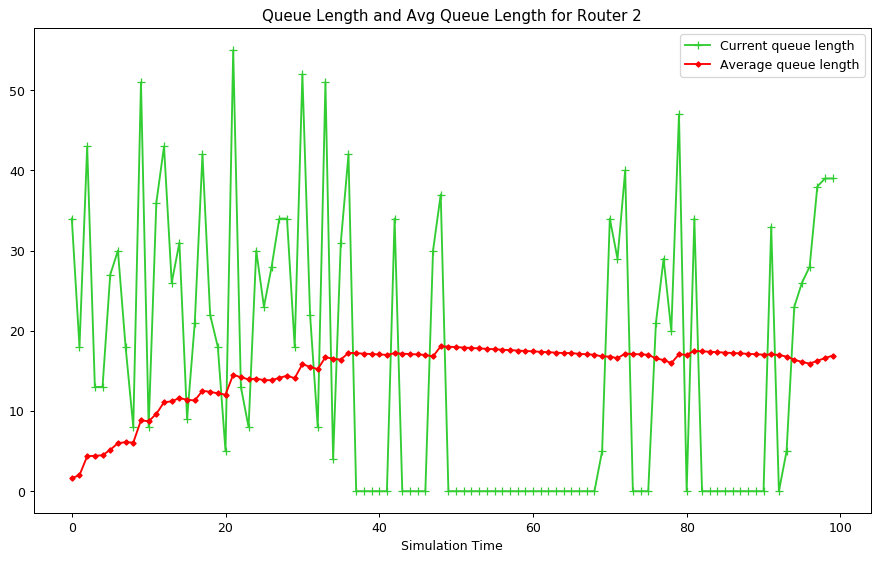
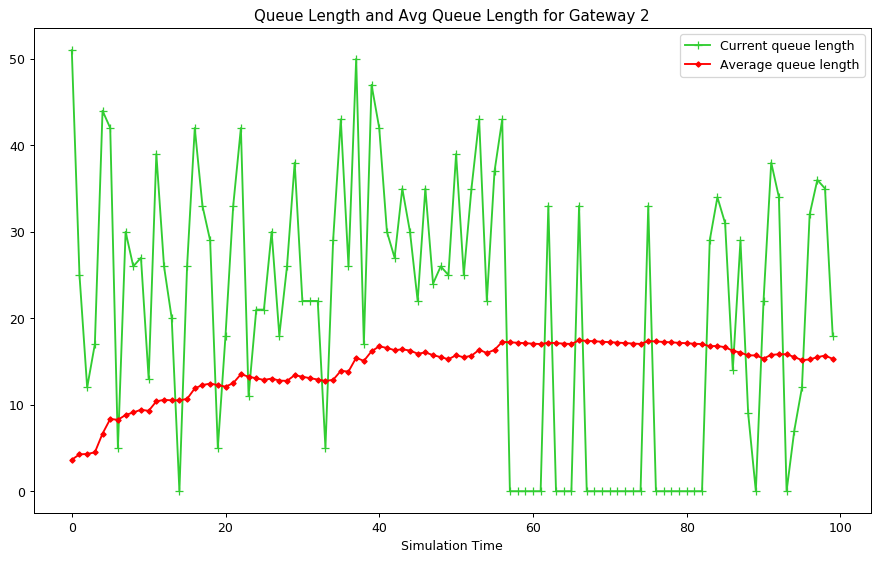
Added packet as a separate class, cleaned code

diff --git a/src/gateway.cpp b/src/gateway.cpp
@@ -2,11 +2,9 @@
     To run the gateway.cpp file:
     g++ gateway.cpp -o gateway -std=c++11 -lpthread
     To execute:
-    ./gateway 3542 100 low
+    ./gateway 1 100 low
 */
 #include "gateway.h"
-
-
 
 void gateway::red(packet* Packet) {
     // Calculating queue length
@@ -37,14 +35,15 @@ void gateway::red(packet* Packet) {
         if(count == 50) {
             // count has reached 1/maxp, 
             // Need to drop packets now
-            printf("Count has reached 1/maxp. Dropping next packet\n");
+            printf("Count has reached 1/maxp. Dropping packet\n");
             pa = 1.0;
         }
         double randomP = (rand()%100)/100.00;
         // Dropping packet with probability pa
-        if(randomP < pa) {
-            printf("Dropping packet\n");
-            // Resseting count to 0
+        if(randomP <= pa) {
+            if(count != 50)
+                printf("Dropping packet\n");
+            // Resetting count to 0
             count = 0;
         } else {
             printf("Packet buffered\n");
@@ -65,13 +64,11 @@ void gateway::red(packet* Packet) {
         // Since the average queue length is below minimum threshold, initialize count to -1
         count = -1;
     }
-
     // Printing the queue
     // showq(Queue);
 }
 
 void gateway::dequeQueue() {
-    cout<<"Queue Dequeued"<<endl;
     mtx.lock();
     while(!Queue.empty()) { 
         packet *Packet = Queue.front();
@@ -148,10 +145,11 @@ void gateway::acceptMethod(int index, string traffic) {
 
     set<int> :: iterator itr;
     itr = s.begin();
-    cout << "Outlinks port nos.\n";
+    cout << "---------------------\n";
+    cout << "Outlink's port numbers\n";
     for(auto elem : s)
-        cout << elem << " ";
-    cout << "\n";
+        cout << elem << "\n";
+    cout << "---------------------\n";
 
     for(int i=0; i<s.size(); i++) {
         int sck = socket(PF_INET, SOCK_STREAM, 0);
@@ -202,14 +200,17 @@ void gateway::acceptMethod(int index, string traffic) {
         // forwarding all the packets to the respective servers
         dequeQueue();
 
+        cout << "#" << t + 1 << ": " << endl;
         simulateRED();
         auto end = chrono::steady_clock::now();
         int tTaken = chrono::duration_cast<chrono::microseconds>(end - start).count();
-        cout<<"Time taken:"<<tTaken<<endl;
         
+        mtx.lock();
         fout << Queue.size() << "\t" << avg << endl;
+        mtx.unlock();
         usleep(1000000 - tTaken);
     }
+    cout << "Simulation finished\n";
 
     for(int i=0; i<maxNumClients; i++) {
         clients[i].join();
@@ -224,12 +225,12 @@ void gateway::acceptMethod(int index, string traffic) {
         close(clientsSockid[i]);
 
     dequeQueue();
+    cout << "Close connection packet sent\n";
     
     // Closing the sockets to the outlinks
     for(auto elem : s) {
         close(mp[elem]);
     }
-    // close(servSockid);    
 }
 
 int main(int argc, char const** argv) {

diff --git a/src/client.h b/src/client.h
@@ -13,21 +13,9 @@
 #include <fstream>
 #include <iostream>
 #include <chrono>
+#include "packet.h"
 
 using namespace std;
-
-// Class to represent a single packet
-class packet {
-public:
-    bool isLast;
-    int destPortNo;
-    char charPayload;
-    int clientNum;
-
-    packet() {
-        isLast=false;
-    }    
-};
 
 class client {
 public:
@@ -41,6 +29,7 @@ public:
         string fileName = "./topology/topology-client.txt";
         fin.open(fileName);
         int n, x, y;
+
         fin >> n;
         for(int i=0; i<n; i++) {
             fin >> x >> y;
@@ -50,15 +39,16 @@ public:
                 break;
             }
         }
-        cout << portNo << " " << dPortNo << endl;
+        
+        cout << "Outlink port number = " << portNo << "\nDestination Port number = " << dPortNo << endl;
         fin.close();
+        cout << "Topology file read\n";
         // Reading topology file complete
 
         // Reading hostrate file
         fileName = "./samples/" + traffic + "/hostrate-" + traffic + ".txt";
         fin.open(fileName);
         fin >> numHosts;
-        cout << "numHosts = " << numHosts << endl;
 
         for(int i=0; i<numHosts; i++) {
             fin >> x;
@@ -67,7 +57,7 @@ public:
                 break;
             }
         }
-        cout << burstSize << endl;
+        cout << "Burst size of host = " << burstSize << endl;
         fin.close();
         // Reading hostrate file complete
 

diff --git a/src/server.h b/src/server.h
@@ -15,21 +15,9 @@
 #include <iostream>
 #include <fstream>
 #include <set>
+#include "packet.h"
 
 using namespace std;
-
-// Class to represent a single packet
-class packet {
-public:
-    bool isLast;
-    int destPortNo;
-    char charPayload;
-    int clientNum;
-
-    packet() {
-        isLast=false;
-    }    
-};
 
 class server {
 public:
@@ -46,6 +34,7 @@ public:
         string fileName = "./topology/topology-server.txt";
         fin.open(fileName);
         int numServs, x, y;
+        
         fin >> numServs;
         for(int i=0; i<numServs; i++) {
             fin >> x >> y;
@@ -55,7 +44,10 @@ public:
                 break;
             }
         }
+
+        cout << "Port number = " << portNo << "\nNumber of inlinks = " << maxNumClients << endl;
         fin.close();
+        cout << "Topology file read\n";
 
         sockid = socket(PF_INET, SOCK_STREAM, 0);
         if(sockid < 0) {
@@ -79,12 +71,13 @@ public:
             clilen = sizeof(clientAddr);
         }
 
-        acceptMethod();
+        acceptMethod(index);
     }
 
     // This method accepts connection from all clients
     // and calls the receive method on threads for each client
-    void acceptMethod();
+    void acceptMethod(int index);
 
+    // The server creates thread for each inlink and calls this method
     void receivePackets(int id);
 };

diff --git a/src/gateway.h b/src/gateway.h
@@ -16,21 +16,9 @@
 #include <fstream>
 #include <map>
 #include <set>
+#include "packet.h"
 
 using namespace std;
-
-// Class to represent a single packet
-class packet {
-public:
-    bool isLast;
-    int destPortNo;
-    char charPayload;
-    int clientNum;
-
-    packet() {
-        isLast=false;
-    }    
-};
 
 class gateway {
 public:
@@ -44,7 +32,7 @@ public:
     mutex mtx3;                 // For receivedLastPacket variable's synchronization
     vector<packet*> bufferPackets;
     map<int, int> portId;       // For mapping dest port nos to outlink's port no.
-    map<int, int> mp;
+    map<int, int> mp;           // Sort of forwarding table
     ofstream fout;
 
     // RED Algorithm's parameters
@@ -72,7 +60,7 @@ public:
         }
 
         fin >> portNo >> maxNumClients;
-        cout << "port no = " << portNo << " maxNumClients = " << maxNumClients << endl;
+        cout << "Port number of gateway = " << portNo << "\nNumber of inlinks = " << maxNumClients << endl;
         int szMap, e1, e2;
         fin >> szMap;
 
@@ -82,6 +70,7 @@ public:
         }
 
         fin.close();
+        cout << "Topology file read\n";
         // Topology reading complete
 
         // Creating socket for the gateway

diff --git a/src/client.cpp b/src/client.cpp
@@ -1,8 +1,8 @@
 /*
     To run the client.cpp file:
-    g++ client-new.cpp -o client -std=c++11 -lpthread
+    g++ client.cpp -o client -std=c++11 -lpthread
     To execute:
-    ./client 3542 1 100 low
+    ./client 1 100 low
 */
 #include "client.h"
 
@@ -12,7 +12,7 @@ void client::sendPacket(int id, int ind) {
 
     // Write a character to the socket
     Packet->charPayload = charArray[ind];
-    Packet->clientNum=ind;
+    
     int count = send(sockid, Packet, sizeof(*Packet), 0);
     if(count < 0) {
         printf("Error on sending.\n");
@@ -56,6 +56,7 @@ void client::simulateHost(int index, int simTime) {
         // srand((index + 1) * (i + 1));
         int num = rand() % 2;       // Sending bursts randomly
         
+        cout << "#" << i + 1 << ": ";
         // cout << num << endl;
         if(num == 1) {
             cout << "Sending burst\n";
@@ -84,10 +85,8 @@ void client::simulateHost(int index, int simTime) {
         }
         auto end = chrono::steady_clock::now();
         int tTaken = chrono::duration_cast<chrono::microseconds>(end - start).count();
-        // cout << tTaken << endl;
         usleep(1000000 - tTaken);
     }
-
     cout << "Client " << index + 1 << " finished\n";
 }
 

diff --git a/src/plotter.py b/src/plotter.py
@@ -1,16 +1,13 @@
 import matplotlib.pyplot as plt
 import sys
 
-index=sys.argv[1]
-
-
 # plt.style.use('ggplot')
-
+index = sys.argv[1]
 with open("./samples/log-{}.txt".format(index), "r") as fp:
     lines = fp.readlines()
 
 queue = []
-avg=[]
+avg = []
 for count, line in enumerate(lines):
     if count == 0:
         traffic = line
@@ -21,7 +18,7 @@ for count, line in enumerate(lines):
 
 plt.figure(num=None, figsize=(12, 7), dpi=90, facecolor='w', edgecolor='k')
 plt.locator_params(axis='x', nbins=10)
-plt.title("Queue Length and Avg Queue Length for Router {}".format(index))
+plt.title("Queue Length and Avg Queue Length for Gateway {}".format(index))
 plt.xlabel("Simulation Time")
 plt.plot(range(len(queue)), queue, color='#32CD32', marker='+', label="Current queue length")
 plt.plot(range(len(avg)), avg, color='red', marker='D', ms=3, label="Average queue length")
@@ -30,4 +27,4 @@ plt.legend()
 # plt.show()
 fileName = "./samples/" + traffic.strip() + "/queues-{}.png".format(index)
 plt.savefig(fileName, bbox_inches='tight')
-print("Graph plotted successfully")
+print("Graph-{} plotted successfully".format(index))

diff --git a/src/server.cpp b/src/server.cpp
@@ -1,8 +1,8 @@
 /*
-    To run the client.cpp file:
-    g++ client-new.cpp -o client -std=c++11 -lpthread
+    To run the server.cpp file:
+    g++ server.cpp -o server -std=c++11 -lpthread
     To execute:
-    ./client 3542 1 100 low
+    ./server 1
 */
 #include "server.h"
 
@@ -13,12 +13,14 @@ void server::receivePackets(int id) {
         if(count < 0) {
             printf("Error on receiving message from socket %d.\n", id);
         }
-        if(recvpacket->isLast==true)
+        if(recvpacket->isLast==true) {
+            cout << "Last packet received";
             break;   
+        }
     }
 }
 
-void server::acceptMethod() {
+void server::acceptMethod(int index) {
     // Connect to clients
     clientsSockid = new int[maxNumClients];
     for(int i=0; i<maxNumClients; i++) {
@@ -35,6 +37,7 @@ void server::acceptMethod() {
     for(int i=0; i<maxNumClients; i++) {
         clients[i].join();
     }
+    cout << "Server " << index + 1 << "'s simulation finished\n";
 }
 
 int main(int argc, char const** argv) {

diff --git a/src/packet.h b/src/packet.h
@@ -1,0 +1,11 @@
+// Class to represent a single packet
+class packet {
+public:
+    bool isLast;
+    int destPortNo;
+    char charPayload;
+
+    packet() {
+        isLast = false;
+    }    
+};
